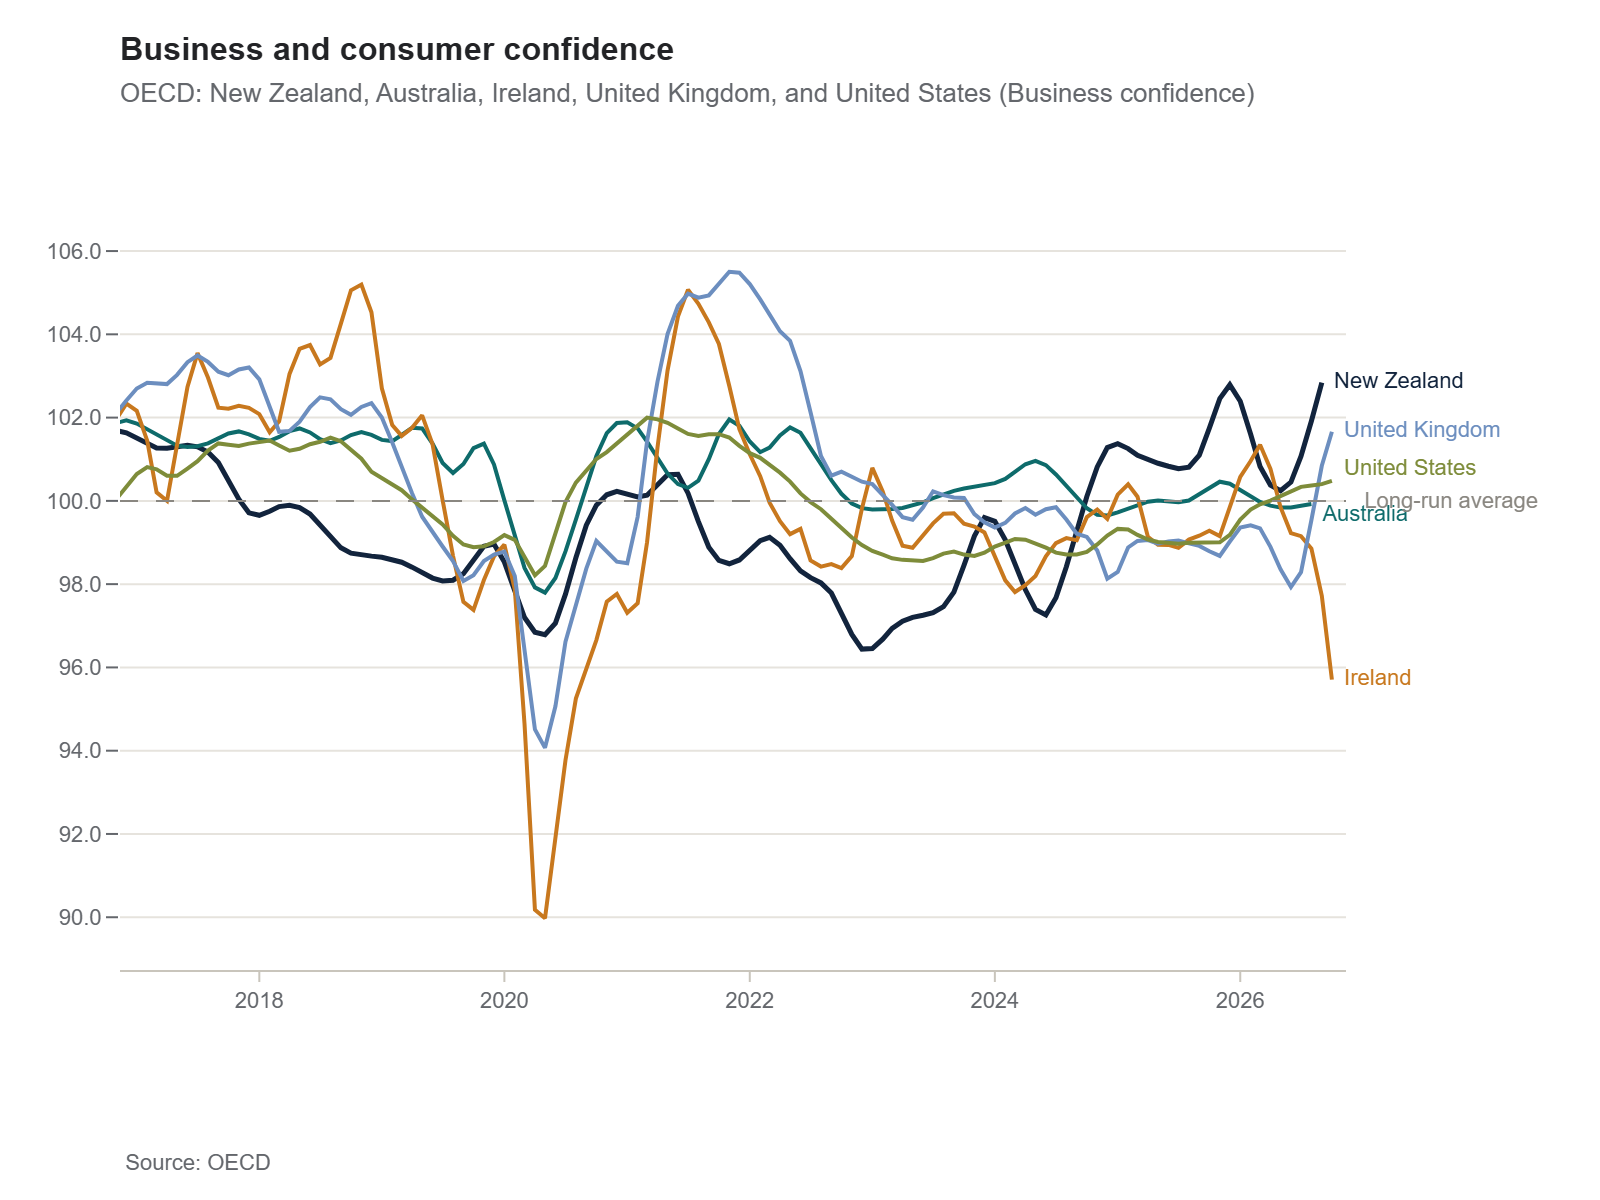
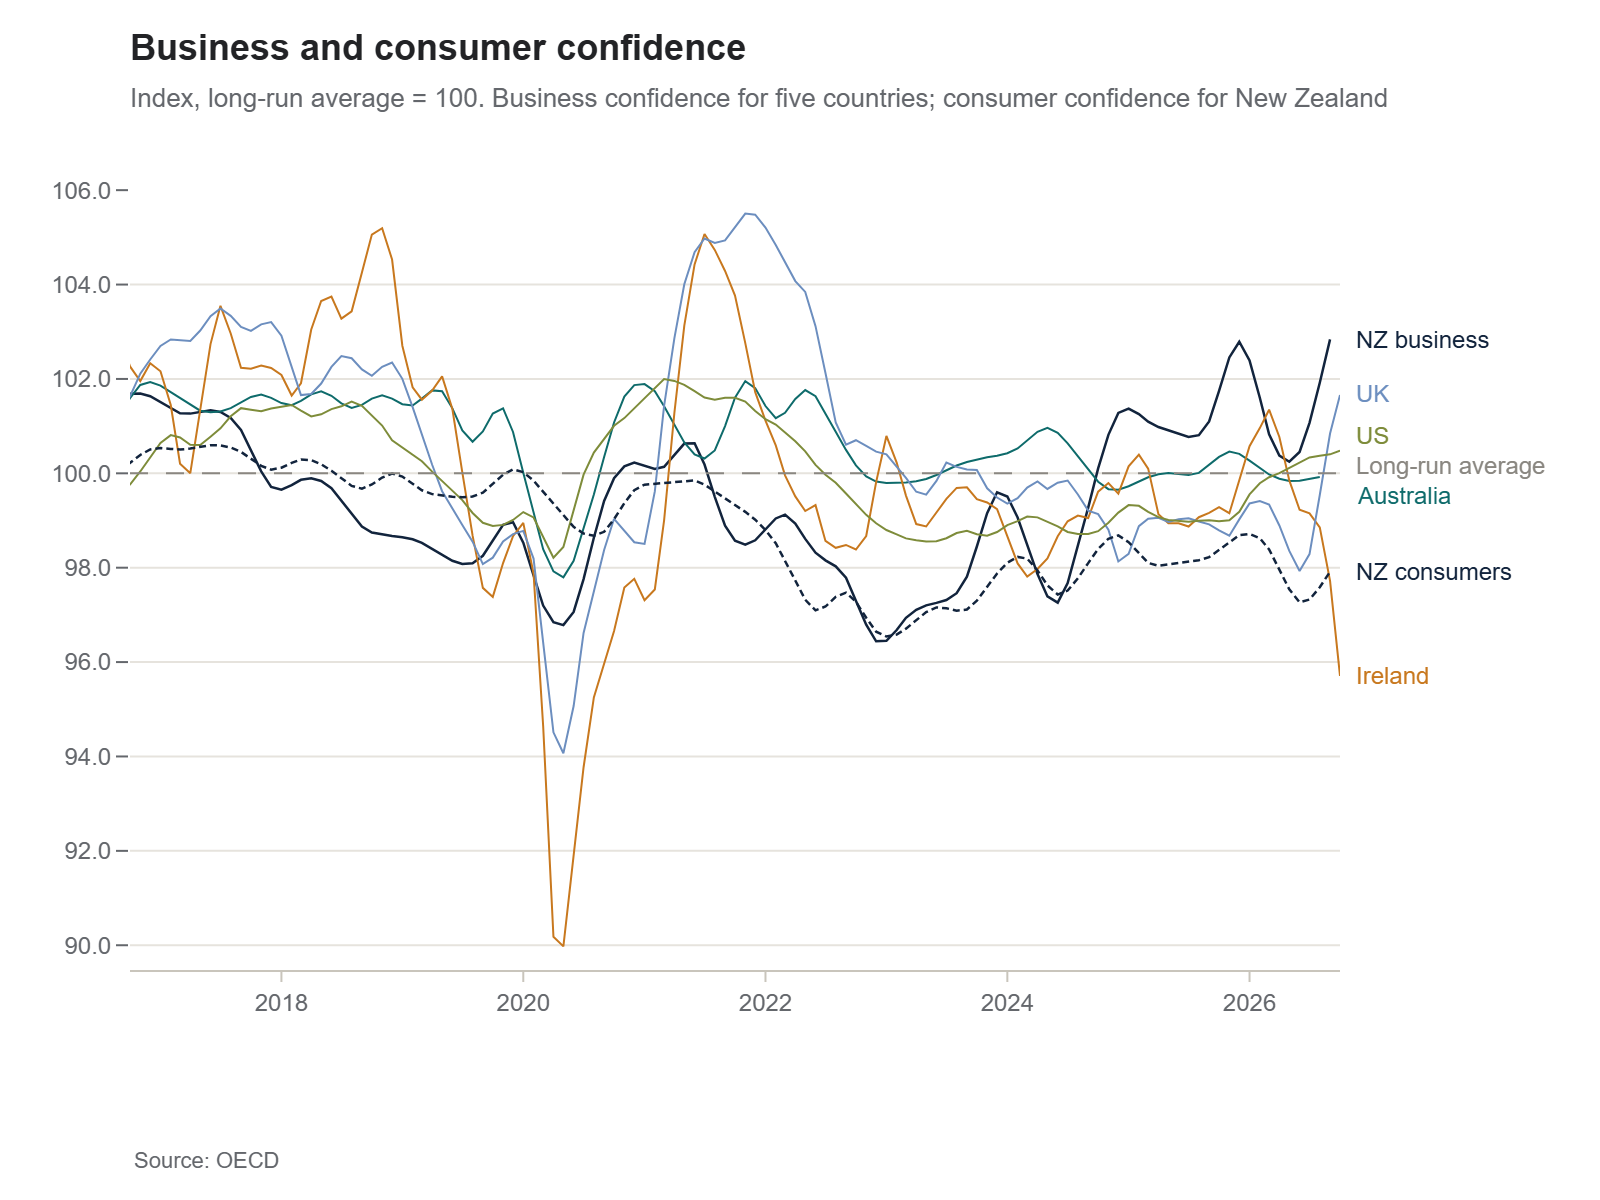
Publish charts 2026-11-18

diff --git a/posts/business-consumer-confidence/index.html b/posts/business-consumer-confidence/index.html
@@ -61,9 +61,9 @@
   <p>That compares each country with its own history. It does not mean New Zealand has the strongest economy.</p>
   <p>I will be watching whether business optimism turns into more hiring and investment, and whether households start to feel it. Confidence is encouraging. What happens to jobs and spending will matter more.</p>
   <figure class="wide">
-    <div class="chart-live"><iframe src="../../oecd_confidence/?embed=1&amp;series=business-new-zealand,business-australia,business-ireland,business-united-kingdom,business-united-states" title="Business confidence, New Zealand and other countries, index with long-run average = 100" loading="lazy"></iframe></div>
-    <button class="map-open chart-image" type="button" aria-label="Enlarge the business confidence chart"><img src="confidence-article-800x600.png" width="1600" height="1200" loading="lazy" alt="Business confidence over 10 years for New Zealand, Australia, Ireland, the United Kingdom and the United States, where 100 is the long-run average. New Zealand ends highest, at about 103."></button>
-    <figcaption>Business confidence, monthly index, long-run average = 100. New Zealand is based on the NZIER survey.</figcaption>
+    <div class="chart-live"><iframe src="../../oecd_confidence/?embed=1&amp;series=business-new-zealand,business-australia,business-ireland,business-united-kingdom,business-united-states" title="Business confidence, New Zealand and other countries" loading="lazy"></iframe></div>
+    <button class="map-open chart-image" type="button" aria-label="Enlarge the confidence chart"><img src="confidence-article-800x600.png" width="1600" height="1200" loading="lazy" alt="Line chart of OECD confidence from 2017 to 2026, where 100 is each country's long-run average. New Zealand business confidence ends highest of the five countries, at 102.8 in September 2026, its best reading since 2014. New Zealand consumer confidence ends at 97.9, still below average. The UK and US are just above 100, Australia just below, and Ireland has dropped to about 96."></button>
+    <figcaption><span class="chart-live">Business confidence, monthly index, long-run average = 100. New Zealand is based on the NZIER survey.</span><span class="chart-image">Business confidence for five countries and New Zealand consumer confidence, monthly index, long-run average = 100. New Zealand is based on the NZIER survey.</span></figcaption>
     <div class="downloads"><a href="confidence-linkedin-1200x627.png" download>High-resolution chart PNG</a></div>
   </figure>
   <p>Explore the <a href="https://csv.co.nz/oecd_confidence/">interactive chart</a>.</p>
